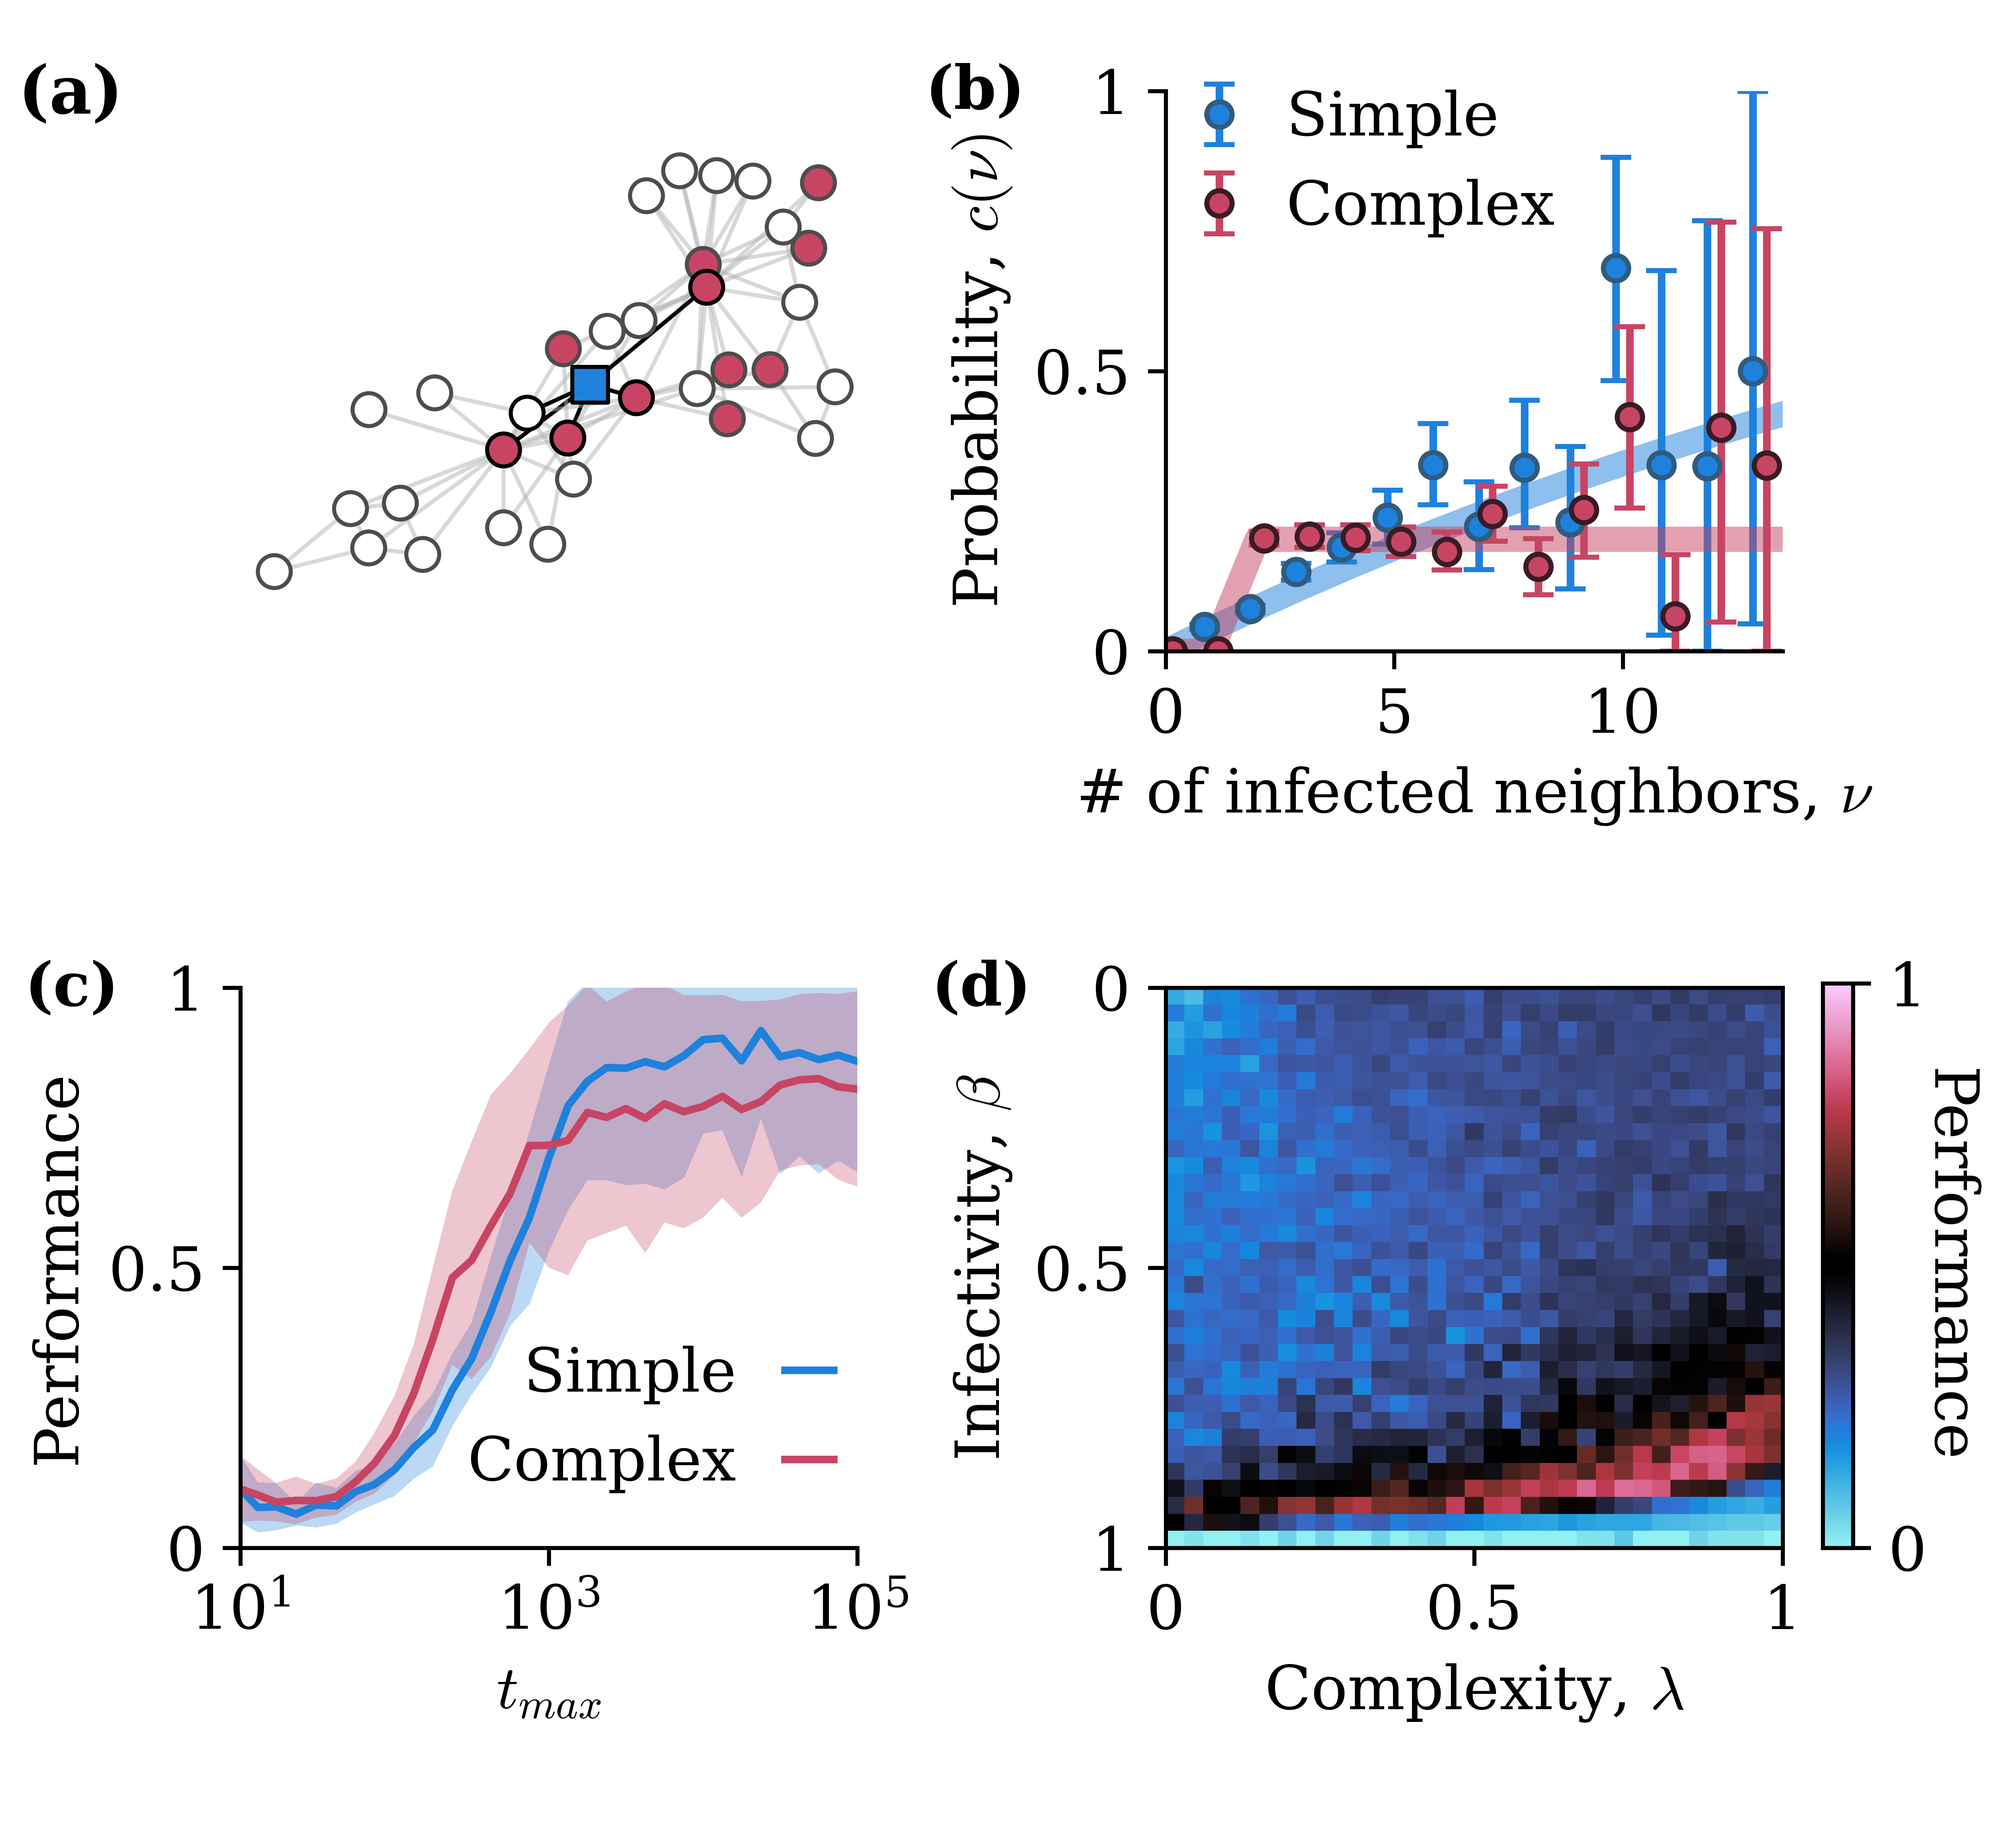
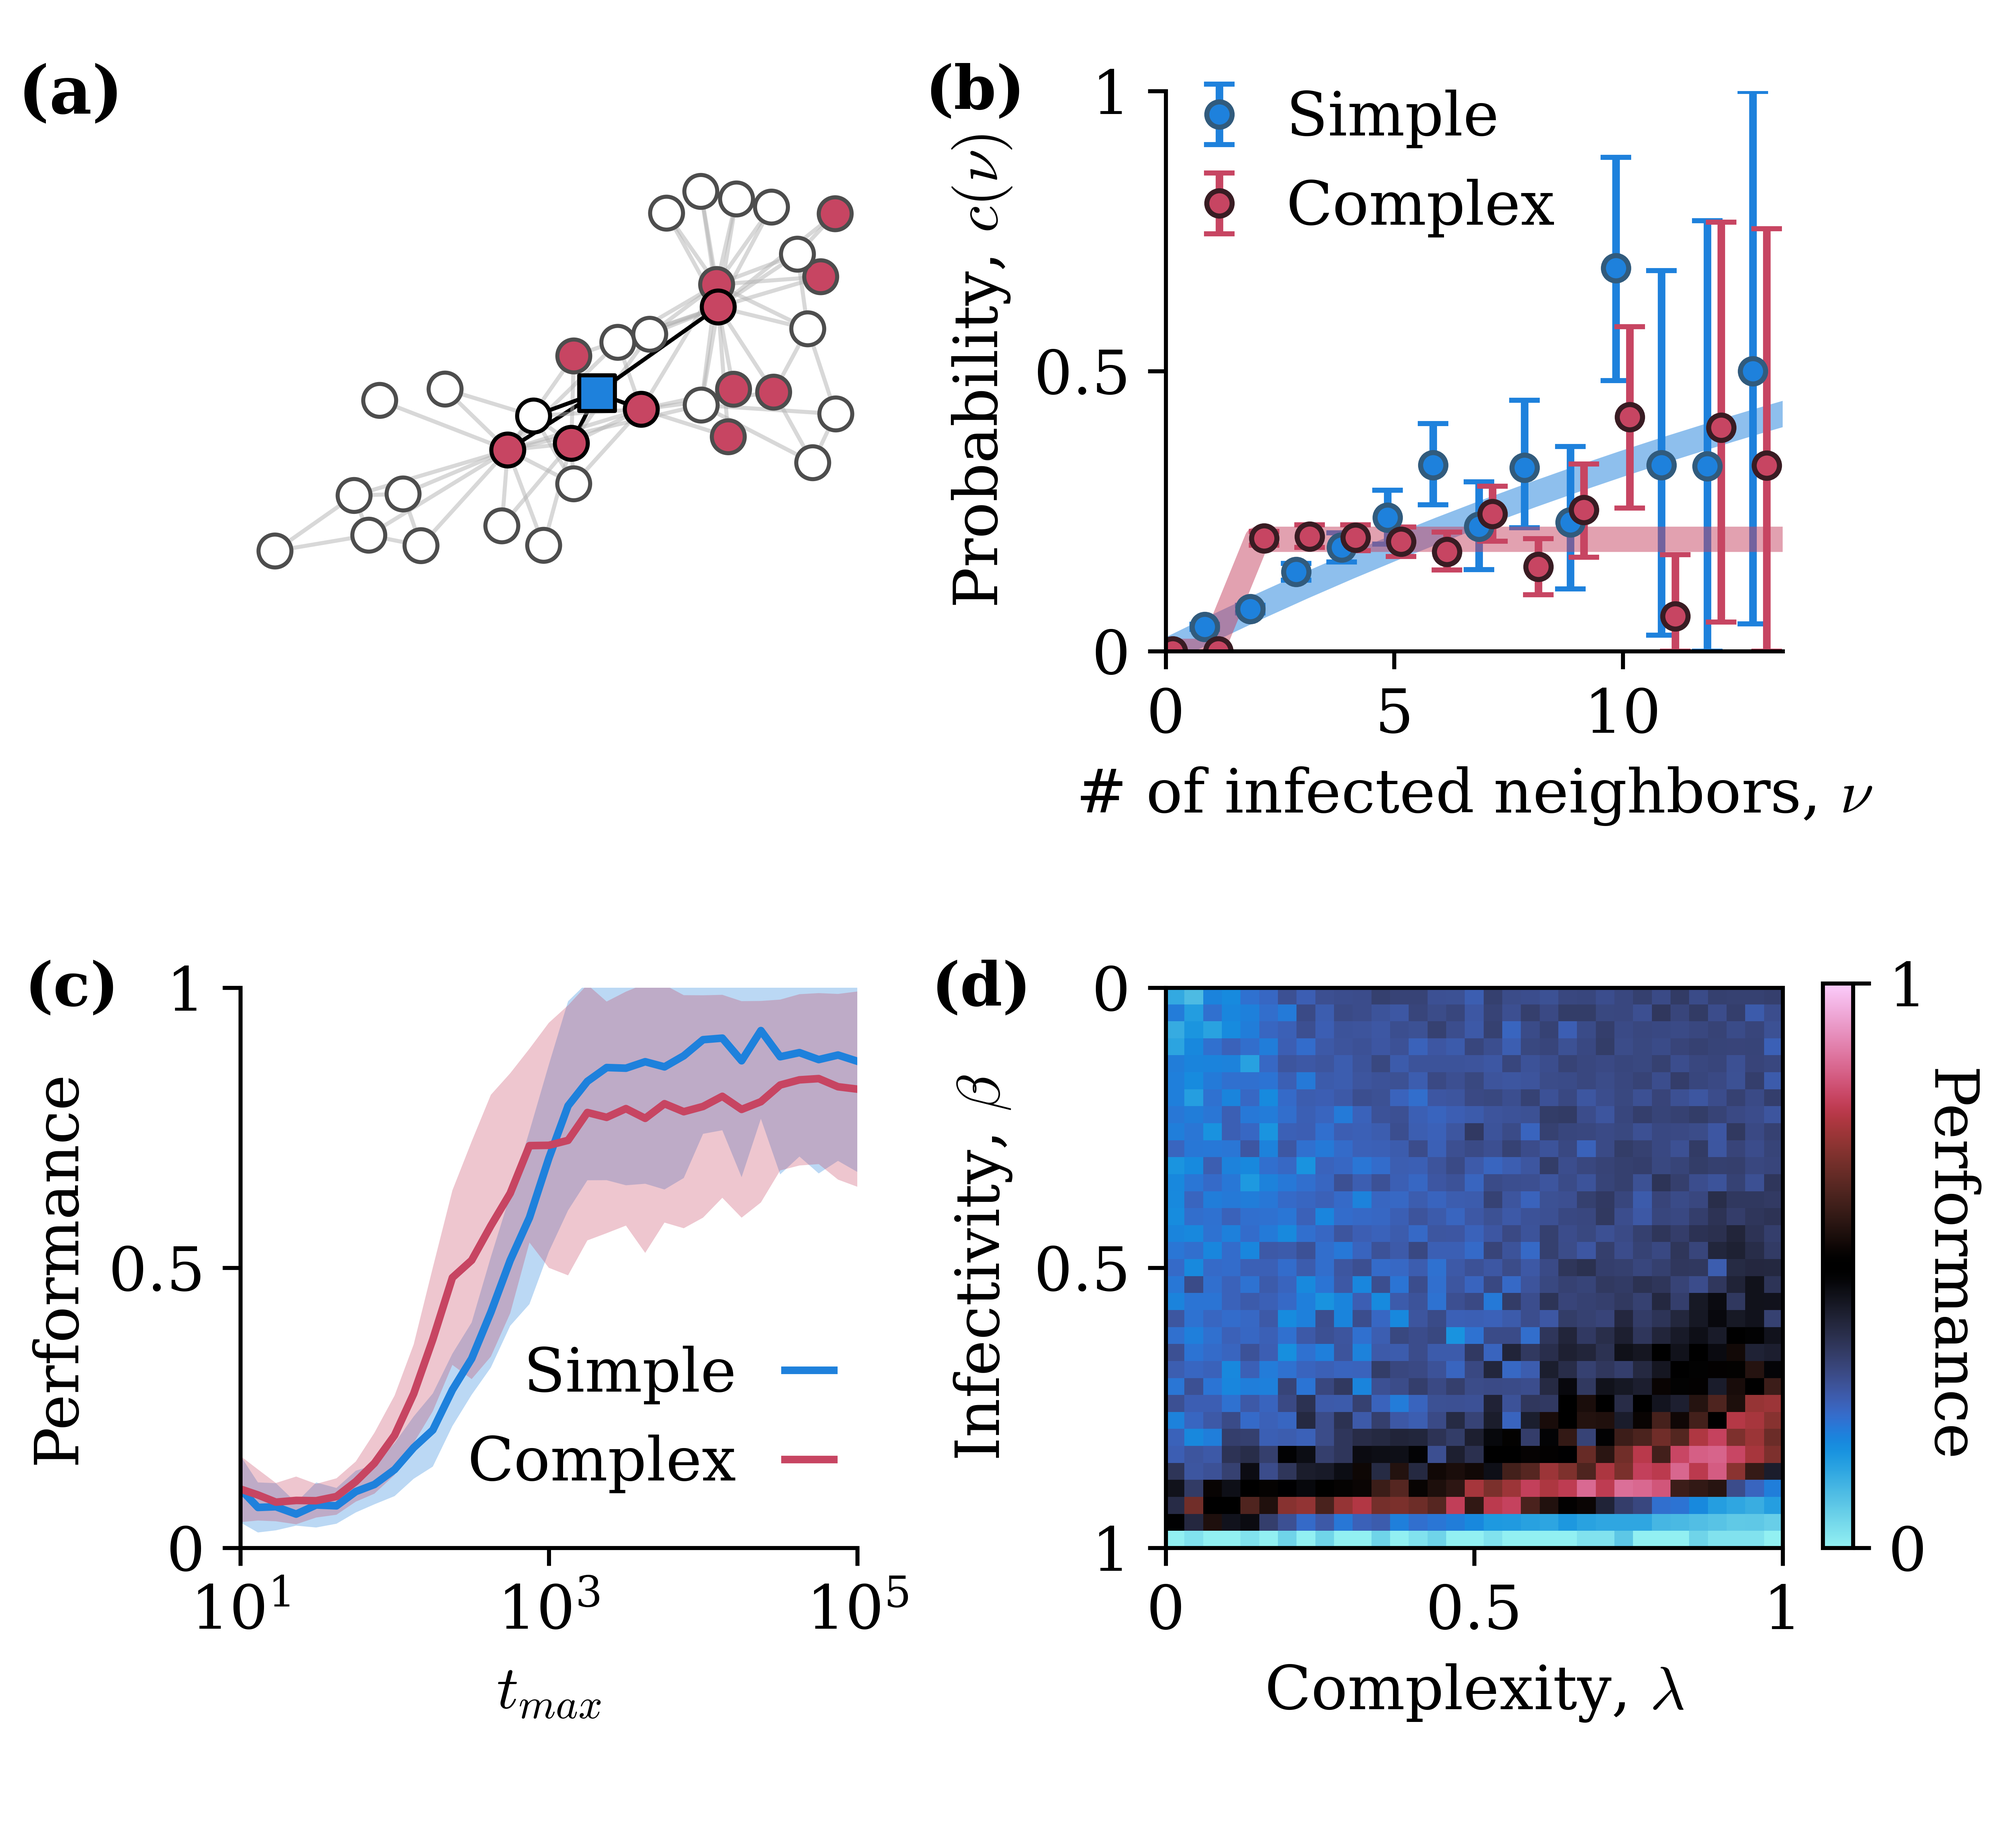
simplify code

Changed region(s): [[0.1244, 0.0936, 0.4353, 0.312]]

diff --git a/plot_fig1.py b/plot_fig1.py
@@ -63,11 +63,8 @@ sg = H.nodes.memberships(i)
 nbrs = H.nodes.neighbors(i)
 nbrs.add(i)
 
-pos = xgi.pca_transform(xgi.pairwise_spring_layout(H, seed=5, k=0.25))
-# rotate pos by 30 degree3
-angle = -1.15 * np.pi / 6
-rotation_matrix = np.array([[np.cos(angle), -np.sin(angle)], [np.sin(angle), np.cos(angle)]])
-pos = {k: np.dot(v, rotation_matrix) for k,v in pos.items()}
+# rotate pos by 30 degrees
+pos = xgi.pca_transform(xgi.pairwise_spring_layout(H, seed=5, k=0.25), theta=30)
 
 node_fc = [infected_color if x[t, i] else susceptible_color for i in H.nodes]
 node_ec = [subgraph_node_lc if n in nbrs else graph_node_lc for n in H.nodes]
